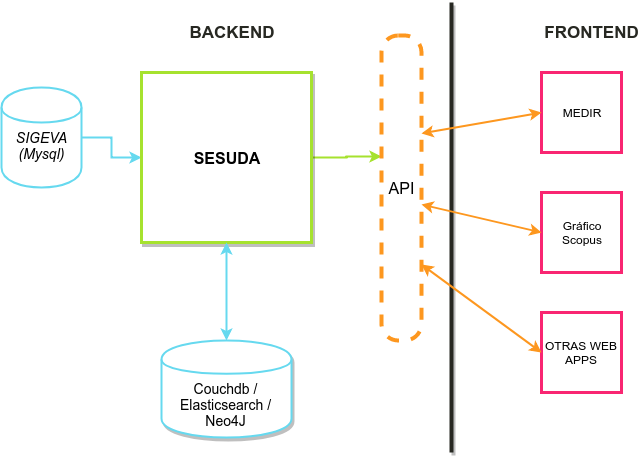
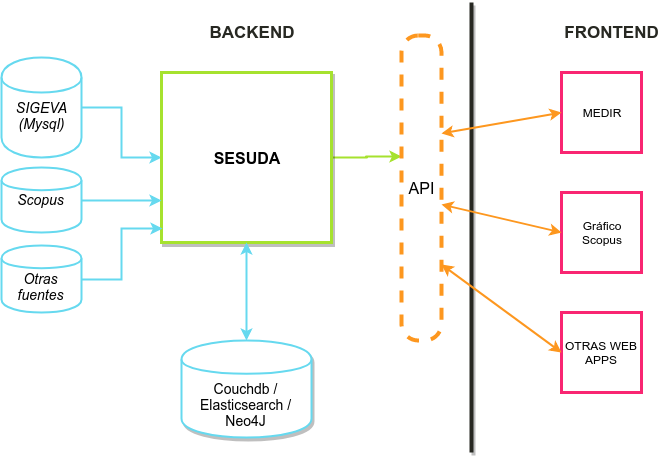
Publicacion.

diff --git a/index.html b/index.html
@@ -160,11 +160,12 @@ class: middle
 # Estructura
 ]
 .right-column[
+![diagrama](diagrama.png)
+##Backend
 ###SESUDA (**SE**rvidor **SU**ple **DA**tos)
 - NodeJs.
 - Docker.
 - Mysql / CouchDb (PouchDb) / ElasticSearch / Neo4j.
-![diagrama](diagrama.png)
 ]
 ---
 layout: false
@@ -173,12 +174,13 @@ class: middle
 # Estructura
 ]
 .right-column[
+## Frontend
 ### Comunicación Interna (institucional)
-- Seguimiento / estado de datos.
+- Seguimiento / estado de datos. - MEDIR -
 
 ### Comunicación externa (pública)
-- Endógena: producida en UNSAM (sigeva, otras áreas).
-- Exógena: producida fuera de UNSAM, sólo podemos analizarla (Scopus, otras instituciones).
+- Endógena: producida en UNSAM (sigeva, otras áreas). - Círculos producción -
+- Exógena: producida fuera de UNSAM, sólo podemos analizarla (Scopus, otras instituciones). - scopus quinquenio -
 ]
 ---
 template: inverse
@@ -221,6 +223,7 @@ template: inverse
 ]
 .right-column[
 ### Círculos producción
+Modelo físico que representa las publicaciones científicas de las UUAA.
 
 - Basado en los resultados de la Memoria Institucional 2016.
 - Separado por unidad académica.
@@ -228,7 +231,7 @@ template: inverse
 - Artículos por gran área.
 
 ###Desarrollado usando:
-- D3.
+- D3js.
 - Webpack.
 ]
 ---
@@ -244,8 +247,9 @@ layout: false
 ### - Scopus quinquenio
 ]
 .right-column[
-###Scopus:
-Es una base de datos de citas y publicaciones científicas en revistas evaluadas por pares.
+###Scopus quinquenio:
+Scatterchart (Gráfico de dispersión) que representa la publicaciones científicas con afiliación UNSAM indexadas por Scopus.
+- Datos tomados de Scopus (base de datos de citas y publicaciones científicas en revistas evaluadas por pares).
 - Ordenado por cantidad de citas.
 - Graficamos un quinquenio.
 - Discriminado por area de conocimiento.
@@ -272,9 +276,11 @@ class: middle
 # Resultados
 ]
 .right-column[
+- Se sistematizó el relevamiento de datos.
+- Hay una continuidad en las políticas de comunicación.
+- Se maneja un mismo lenguaje entre UUAA.
 - Mejoró la participación de los investigadores.
-- .
-- Discriminado por area de conocimiento.
+- Se publican resultados en la web UNSAM.
 ]
 ---
 layout: false
